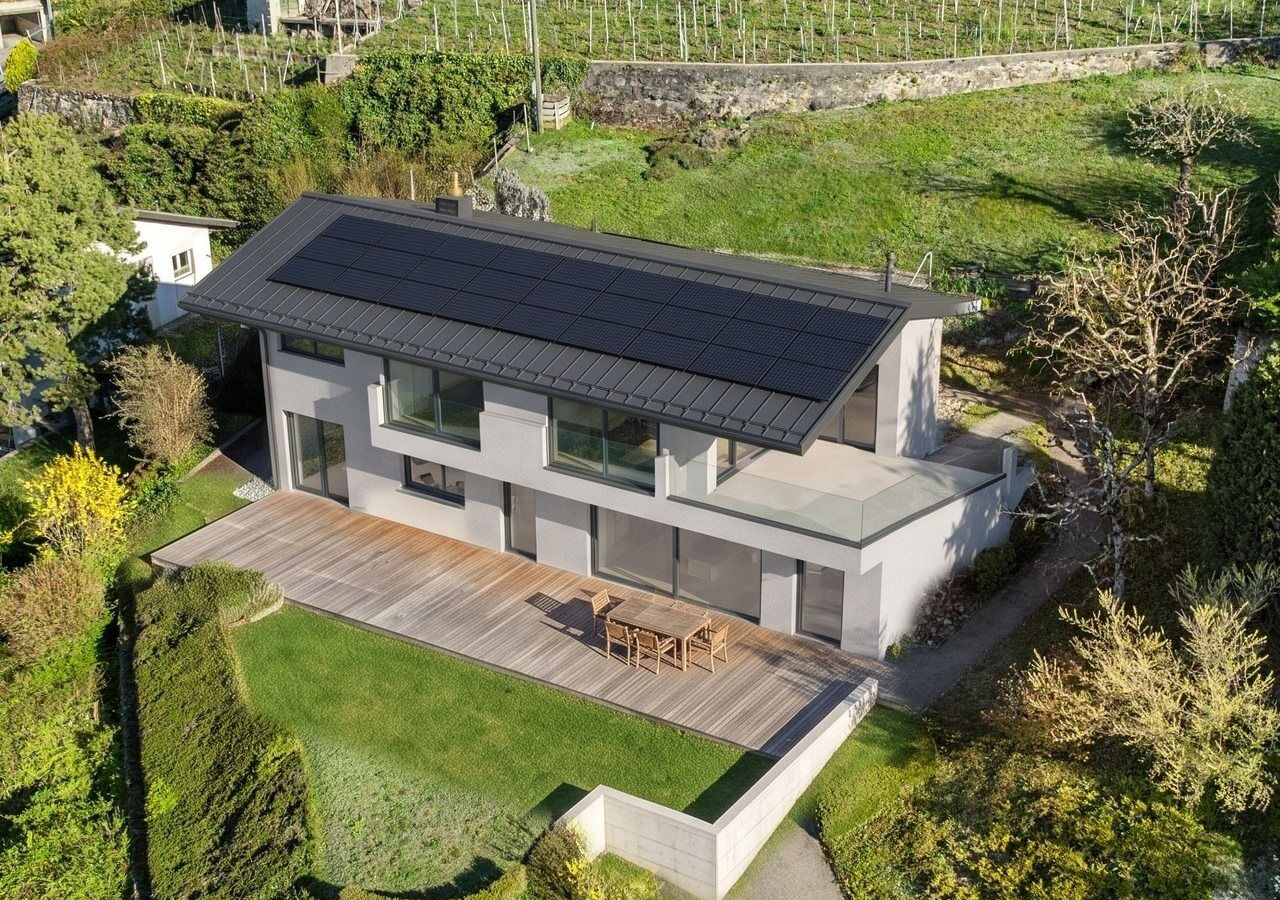
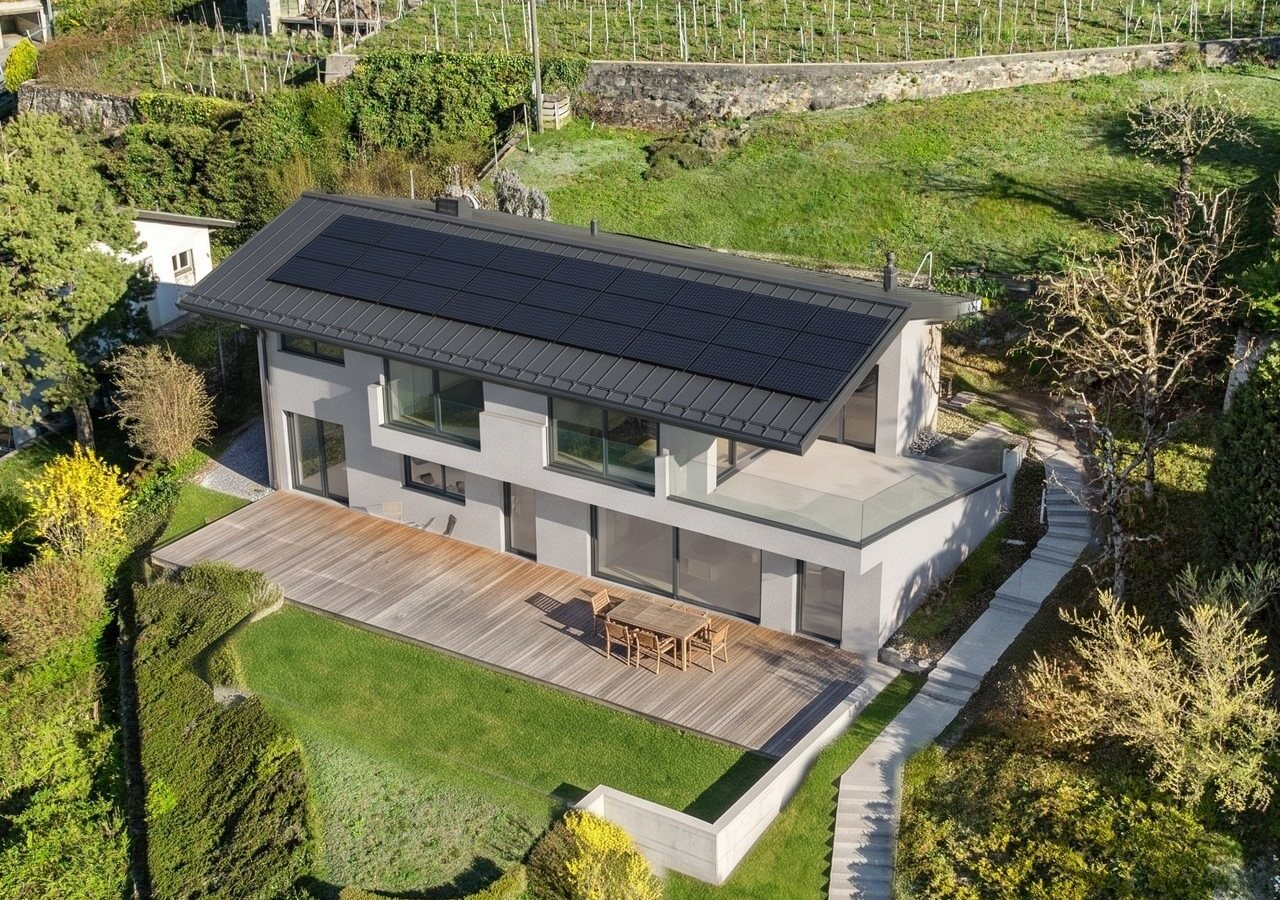
Show the Galatry 3 footpath access in both illustrations
The base no longer has the access ramp: both renders now show it broken
out and returned to lawn, with the 1.2 m stepped footpath climbing the
east side from the roadside concrete area to the front door. The timber
and lawn render reuses the pool render's footpath so the two images
match, and the captions mention the new access.

diff --git a/galatry/illustrations.html b/galatry/illustrations.html
@@ -61,11 +61,11 @@ footer{border-top:1px solid var(--rule);padding-top:14px;font-size:13px;color:va
 <section id="piscine"><div class="sec-head"><h2>Base + piscine</h2><span class="muted">Terrasse en dalles de pierre, piscine à débordement 7 × 3 m</span></div>
 <figure><div class="ba"><img src="img/illustrations/avant.jpg" alt="Avant" width="1280" height="900" loading="lazy"><img class="after" src="img/illustrations/apres-piscine.jpg" alt="Base + piscine" width="1280" height="900" loading="lazy">
 <span class="tag l">Avant</span><span class="tag r">Après</span><span class="bar"></span><span class="knob" aria-hidden="true">&#8596;</span>
-<input type="range" min="0" max="100" value="50" aria-label="Comparer avant et après"></div><figcaption>Façades isolées et crépies, toiture neuve en métal avec panneaux solaires, deux portes-fenêtres jusqu’au sol à l’étage avec garde-corps en verre, baie vitrée à la place de la porte du garage. Devant, la terrasse de 115 m² au niveau −2.85 et la piscine, parallèle à la façade, à 4.5 m d’elle et à 3.2 m de la limite. Murs de soutènement bas (30 à 60 cm).</figcaption></figure></section>
+<input type="range" min="0" max="100" value="50" aria-label="Comparer avant et après"></div><figcaption>Façades isolées et crépies, toiture neuve en métal avec panneaux solaires, deux portes-fenêtres jusqu’au sol à l’étage avec garde-corps en verre, baie vitrée à la place de la porte du garage. Devant, la terrasse de 115 m² au niveau −2.85 et la piscine, parallèle à la façade, à 4.5 m d’elle et à 3.2 m de la limite. Murs de soutènement bas (30 à 60 cm). L’ancienne rampe d’accès est démolie et rendue au jardin ; un chemin piéton de 1.2 m avec des marches monte de l’aire bétonnée du bas, le long du côté est, jusqu’à l’entrée.</figcaption></figure></section>
 <section id="bois-gazon"><div class="sec-head"><h2>Base · bois et gazon</h2><span class="muted">Sans piscine : terrasse en bois le long de la maison, gazon devant</span></div>
 <figure><div class="ba"><img src="img/illustrations/avant.jpg" alt="Avant" width="1280" height="900" loading="lazy"><img class="after" src="img/illustrations/apres-bois-gazon.jpg" alt="Base · bois et gazon" width="1280" height="900" loading="lazy">
 <span class="tag l">Avant</span><span class="tag r">Après</span><span class="bar"></span><span class="knob" aria-hidden="true">&#8596;</span>
-<input type="range" min="0" max="100" value="50" aria-label="Comparer avant et après"></div><figcaption>La même maison. Sur la plateforme, une terrasse en lames de bois sur environ 4.5 m de profondeur le long de la façade, puis du gazon au même niveau jusqu’aux murs bas. La piscine peut s’ajouter plus tard à la place du gazon.</figcaption></figure></section>
+<input type="range" min="0" max="100" value="50" aria-label="Comparer avant et après"></div><figcaption>La même maison. Sur la plateforme, une terrasse en lames de bois sur environ 4.5 m de profondeur le long de la façade, puis du gazon au même niveau jusqu’aux murs bas. La piscine peut s’ajouter plus tard à la place du gazon. Même accès : rampe supprimée, chemin piéton à marches sur le côté est.</figcaption></figure></section>
 <section id="plan"><div class="sec-head"><h2>Plan de masse</h2><span class="muted">Base + piscine 7 × 3 m, nord en haut</span></div>
 <figure class="plan"><img src="img/illustrations/plan-masse-piscine.jpg" alt="Plan de masse" loading="lazy"><figcaption>Rez-inférieur (aménagement « cuisine en haut »), terrasse, piscine cotée, limite de parcelle et direction de la photo drone. Esquisse, non dimensionnée.</figcaption></figure></section>
 <section id="methode"><div class="sec-head"><h2>Comment ces images sont faites</h2></div><ul><li>La caméra du drone est recalculée à partir de 14 points de la maison sur la photo (angles du toit, cheminées, bandeau, ouvertures) : environ 10 pixels d’écart sur 2560.</li><li>La maquette 3D du projet est rendue dans Blender depuis cette caméra, puis incrustée dans la photo : la géométrie (terrasse, piscine, ouvertures) vient des plans.</li><li>Une IA d’édition d’image (Gemini) rend seulement les matériaux et la lumière réalistes, dans la zone modifiée. Le reste est la photo d’origine.</li></ul><p class="note">Ce sont des illustrations, pas des plans. Les proportions viennent de l’esquisse (calée à environ 20–30 cm). Couleurs, matériaux, mobilier et intérieurs visibles sont des hypothèses ou ont été ajoutés par l’IA.</p></section>

diff --git a/galatry/illustrations-en.html b/galatry/illustrations-en.html
@@ -61,11 +61,11 @@ footer{border-top:1px solid var(--rule);padding-top:14px;font-size:13px;color:va
 <section id="piscine"><div class="sec-head"><h2>Base + pool</h2><span class="muted">Stone-paved terrace, 7 × 3 m infinity pool</span></div>
 <figure><div class="ba"><img src="img/illustrations/avant.jpg" alt="Before" width="1280" height="900" loading="lazy"><img class="after" src="img/illustrations/apres-piscine.jpg" alt="Base + pool" width="1280" height="900" loading="lazy">
 <span class="tag l">Before</span><span class="tag r">After</span><span class="bar"></span><span class="knob" aria-hidden="true">&#8596;</span>
-<input type="range" min="0" max="100" value="50" aria-label="Compare before and after"></div><figcaption>Insulated rendered façades, new metal roof with solar panels, two floor-to-ceiling French doors upstairs behind glass guards, glazing in place of the garage door. In front, the 115 m² terrace at −2.85 and the pool, parallel to the façade, 4.5 m from it and 3.2 m from the boundary. Low retaining walls (30 to 60 cm).</figcaption></figure></section>
+<input type="range" min="0" max="100" value="50" aria-label="Compare before and after"></div><figcaption>Insulated rendered façades, new metal roof with solar panels, two floor-to-ceiling French doors upstairs behind glass guards, glazing in place of the garage door. In front, the 115 m² terrace at −2.85 and the pool, parallel to the façade, 4.5 m from it and 3.2 m from the boundary. Low retaining walls (30 to 60 cm). The old access ramp is broken out and returned to garden; a 1.2 m footpath with steps climbs from the concrete area at the bottom, up the east side, to the front door.</figcaption></figure></section>
 <section id="bois-gazon"><div class="sec-head"><h2>Base · timber and lawn</h2><span class="muted">No pool: timber deck along the house, lawn in front</span></div>
 <figure><div class="ba"><img src="img/illustrations/avant.jpg" alt="Before" width="1280" height="900" loading="lazy"><img class="after" src="img/illustrations/apres-bois-gazon.jpg" alt="Base · timber and lawn" width="1280" height="900" loading="lazy">
 <span class="tag l">Before</span><span class="tag r">After</span><span class="bar"></span><span class="knob" aria-hidden="true">&#8596;</span>
-<input type="range" min="0" max="100" value="50" aria-label="Compare before and after"></div><figcaption>The same house. On the platform, a timber deck about 4.5 m deep along the façade, then lawn at the same level up to the low walls. The pool can be added later in place of the lawn.</figcaption></figure></section>
+<input type="range" min="0" max="100" value="50" aria-label="Compare before and after"></div><figcaption>The same house. On the platform, a timber deck about 4.5 m deep along the façade, then lawn at the same level up to the low walls. The pool can be added later in place of the lawn. Same access: ramp removed, stepped footpath on the east side.</figcaption></figure></section>
 <section id="plan"><div class="sec-head"><h2>Site plan</h2><span class="muted">Base + 7 × 3 m pool, north up</span></div>
 <figure class="plan"><img src="img/illustrations/plan-masse-piscine.jpg" alt="Site plan" loading="lazy"><figcaption>Lower floor (“kitchen upstairs” layout), terrace, dimensioned pool, parcel boundary and the direction of the drone photo. Sketch, not to scale.</figcaption></figure></section>
 <section id="methode"><div class="sec-head"><h2>How these images are made</h2></div><ul><li>The drone camera is solved from 14 points of the house on the photo (roof corners, chimneys, band, openings): about 10 pixels of error on 2560.</li><li>The project’s 3D model is rendered in Blender from that camera and set into the photo: the geometry (terrace, pool, openings) comes from the plans.</li><li>An image-editing AI (Gemini) only makes the materials and light realistic, inside the changed area. The rest is the original photo.</li></ul><p class="note">These are illustrations, not plans. Proportions come from the sketch (matched to about 20–30 cm). Colours, materials, furniture and visible interiors are assumptions or were added by the AI.</p></section>
